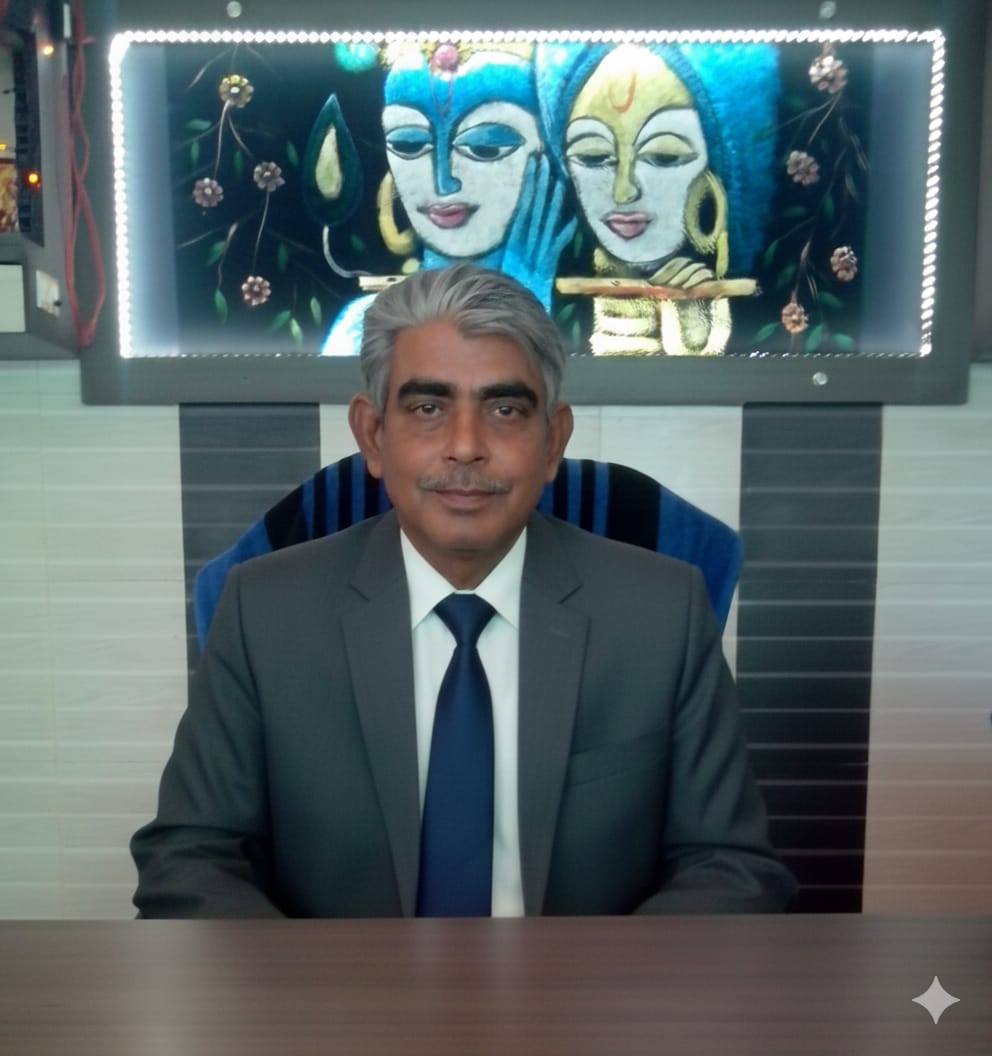
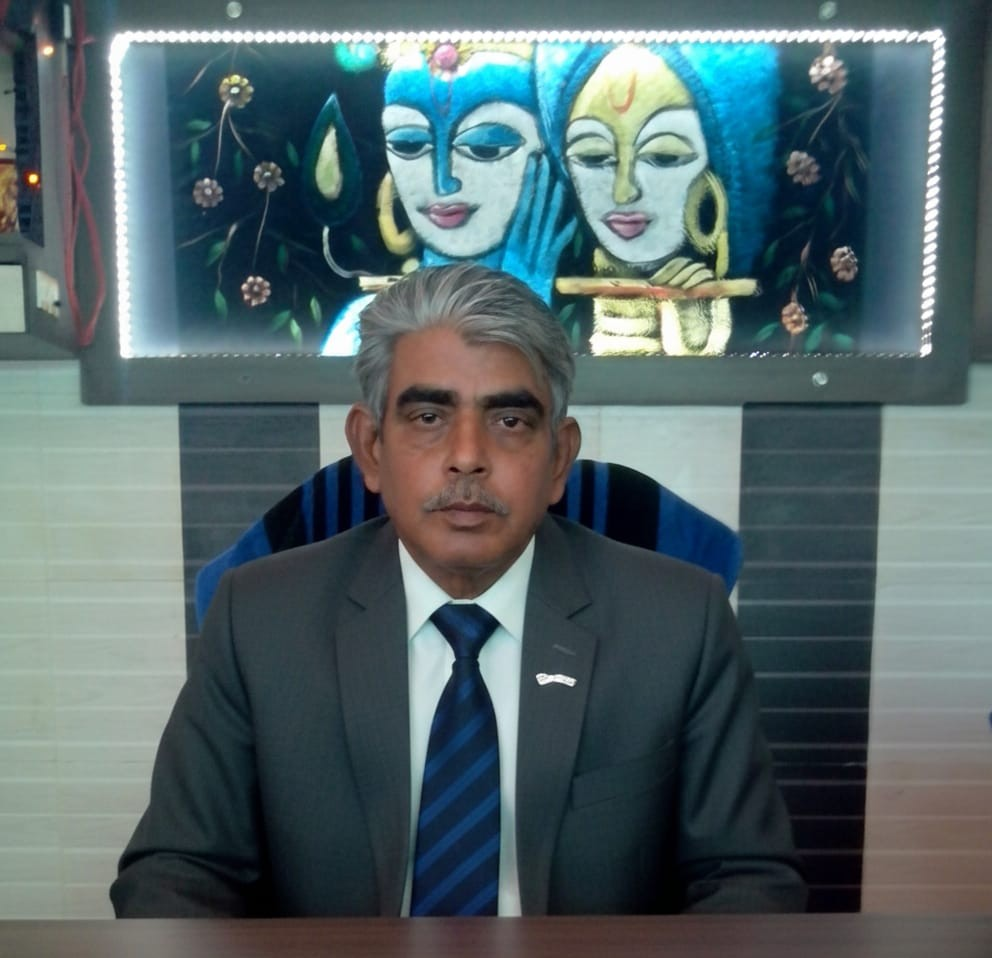
first commit

diff --git a/aboutus.html b/aboutus.html
@@ -1302,80 +1302,154 @@
       </div>
     </section>
 
-    <!-- Team Section -->
-    <section class="team-section">
-      <div class="container">
-        <div
-          class="section-header"
-          style="text-align: center"
-          data-aos="fade-up"
-          data-aos-duration="1000"
-        >
-          <h2>Leadership Team</h2>
-          <p class="section-subtitle">
-            Meet the visionaries driving Dinesh Industries's success
-          </p>
-        </div>
-        <div class="row g-4" style="justify-content: center">
-          <!-- Rajendra manilal Sharma -->
-          <div class="col-lg-3 col-md-6" style="margin: 0 10px" 
-            data-aos="fade-right" data-aos-delay="1000"
-            data-aos-duration="1000">
-            <div class="team-card" style="text-align: center">
-              <div class="team-img">
-                <img src="./img/founder_photo.jpg" alt="Rajendra manilal Sharma"
-                  style="width: 100%; max-width: 200px; height: auto" />
-              </div>
-              <div class="team-info">
-                <h4 class="mb-1">Rajendra Sharma</h4>
-                <p class="text-primary mb-2">Founder</p>
-                <p class="small">
-                  Rajendra Sharma established Dinesh Industries with a commitment to precision, innovation, and reliability. company’s foundation, ensuring the delivery of high-quality industrial components trusted by manufacturers across sectors.
-                </p>
-              </div>
-            </div>
-          </div>
-          <div class="col-lg-3 col-md-6" style="margin: 0 10px"
-     data-aos="fade-right" data-aos-delay="1000"
-     data-aos-duration="1000">
-  <div class="team-card" style="text-align: center">
-    <div class="team-img">
-      <img src="./img/ds.jpeg" alt="Chairman Name"
-        style="width: 100%; max-width: 200px; height: auto" />
+ <!-- Leadership Team Section -->
+<section class="team-section py-5">
+  <div class="container">
+    <div class="section-header text-center mb-5" data-aos="fade-up">
+      <h2 class="title">Leadership Team</h2>
+      <p class="subtitle">Meet the visionaries driving Dinesh Industries's success</p>
     </div>
-    <div class="team-info">
-      <h4 class="mb-1">Dinesh Sharma</h4>
-      <p class="text-primary mb-2">Chairman</p>
-      <p class="small">
-        Dinesh Sharma leads Dinesh Industries with a guiding vision of
-        excellence, responsibility, and steady growth. With decades of
-        industry experience, he focuses on strong leadership, strategic
-        development, and shaping a future-ready organization.
-      </p>
-    </div>
-  </div>
-</div>
 
-          <div class="col-lg-3 col-md-6" style="margin: 0 10px" 
-            data-aos="fade-right" data-aos-delay="1000"
-            data-aos-duration="1000">
-            <div class="team-card" style="text-align: center">
-              <div class="team-img">
-                <img src="./img/CEO_Image.jpg" alt="Aayush Sharma"
-                  style="width: 100%; max-width: 200px; height: auto" />
-              </div>
-              <div class="team-info">
-                <h4 class="mb-1">Aayush Sharma</h4>
-                <p class="text-primary mb-2">CEO</p>
-                <p class="small">
-                  Aayush Sharma leads Dinesh Industries with a modern, growth-driven vision—blending innovation, technology adoption, and strategic expansion. Passionate about elevating manufacturing standards, he focuses on process modernization, customer-centric solutions, and building long-term industry partnerships.
-                </p>
-              </div>
-            </div>
+    <div class="row g-4 justify-content-center">
+
+      <!-- Founder -->
+      <div class="col-xl-3 col-lg-4 col-md-6" data-aos="fade-up" data-aos-delay="100">
+        <div class="team-card">
+          <div class="team-img">
+            <img src="./img/founder_photo.jpg" alt="Rajendra Sharma" />
+          </div>
+          <div class="team-content">
+            <h4>Rajendra Sharma</h4>
+            <p class="position">Founder</p>
+            <p class="bio">
+              Rajendra Sharma established Dinesh Industries with a commitment to
+              precision, discipline, and reliability—building the company’s strong foundation.
+            </p>
           </div>
         </div>
       </div>
-    </section>
+
+      <!-- Chairman -->
+      <div class="col-xl-3 col-lg-4 col-md-6" data-aos="fade-up" data-aos-delay="200">
+        <div class="team-card">
+          <div class="team-img">
+            <img src="./img/ds.jpeg" alt="Dinesh Sharma" />
+          </div>
+          <div class="team-content">
+            <h4>Dinesh Sharma</h4>
+            <p class="position">Chairman</p>
+            <p class="bio">
+              Dinesh Sharma leads with strong vision, ensuring strategic growth and
+              long-term excellence across operations.
+            </p>
+          </div>
+        </div>
+      </div>
+
+      <!-- CEO -->
+      <div class="col-xl-3 col-lg-4 col-md-6" data-aos="fade-up" data-aos-delay="300">
+        <div class="team-card">
+          <div class="team-img">
+            <img src="./img/CEO_Image2.jpg" alt="Aayush Sharma" />
+          </div>
+          <div class="team-content">
+            <h4>Aayush Sharma</h4>
+            <p class="position">CEO</p>
+            <p class="bio">
+              Aayush Sharma drives innovation and modernization with a vision for
+              technology-driven, future-ready manufacturing.
+            </p>
+          </div>
+        </div>
+      </div>
+
+    </div>
+  </div>
+</section>
+<style>
+  /* Section Title */
+.team-section .title {
+  font-size: 2.4rem;
+  font-weight: 700;
+}
+
+.team-section .subtitle {
+  font-size: 1.1rem;
+  color: #666;
+}
+
+/* Card */
+.team-card {
+  background: rgba(255, 255, 255, 0.9);
+  border-radius: 18px;
+  overflow: hidden;
+  box-shadow: 0 10px 25px rgba(0, 0, 0, 0.1);
+  transition: 0.35s ease;
+  height: 100%;
+  backdrop-filter: blur(10px);
+}
+
+.team-card:hover {
+  transform: translateY(-8px);
+  box-shadow: 0 12px 35px rgba(0, 0, 0, 0.18);
+}
+
+/* Image */
+.team-img {
+  width: 100%;
+  height: 260px;
+  overflow: hidden;
+}
+
+.team-img img {
+  width: 100%;
+  height: 100%;
+  object-fit: cover;
+  transition: 0.4s ease;
+}
+
+.team-card:hover .team-img img {
+  transform: scale(1.06);
+}
+
+/* Content */
+.team-content {
+  padding: 20px;
+  text-align: center;
+}
+
+.team-content h4 {
+  font-size: 1.25rem;
+  font-weight: 700;
+  margin-bottom: 6px;
+}
+
+.position {
+  color: #0d6efd;
+  font-weight: 600;
+  margin-bottom: 10px;
+}
+
+.bio {
+  font-size: 0.92rem;
+  color: #555;
+  line-height: 1.5;
+}
+
+/* Responsive */
+@media (max-width: 768px) {
+  .team-img {
+    height: 220px;
+  }
+}
+
+@media (max-width: 576px) {
+  .team-img {
+    height: 200px;
+  }
+}
+
+</style>
 
     <!-- Stats Section -->
     <section class="stats-section">
